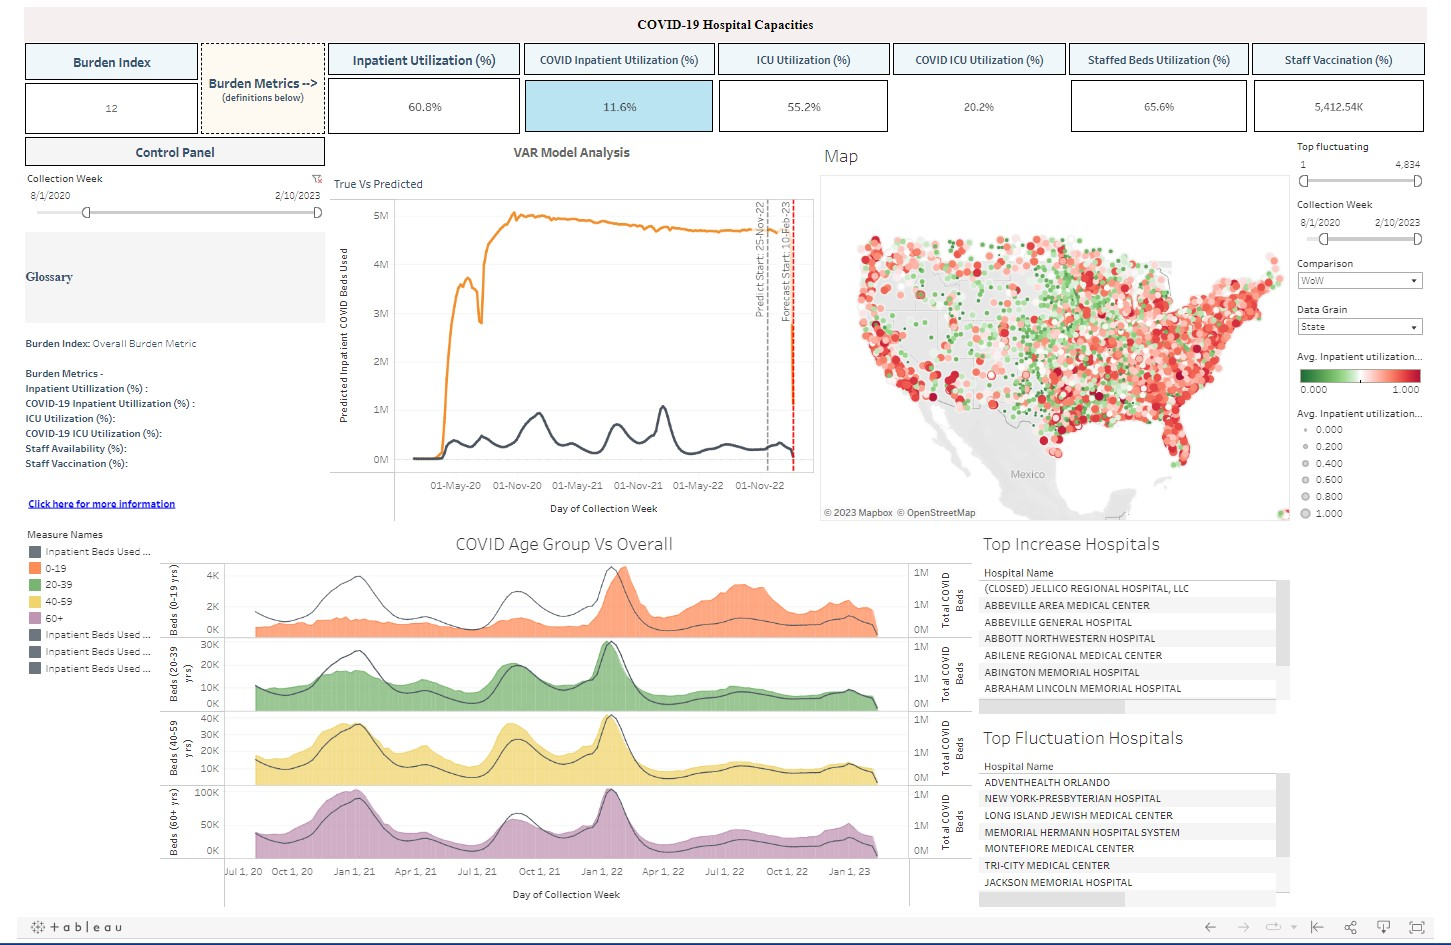
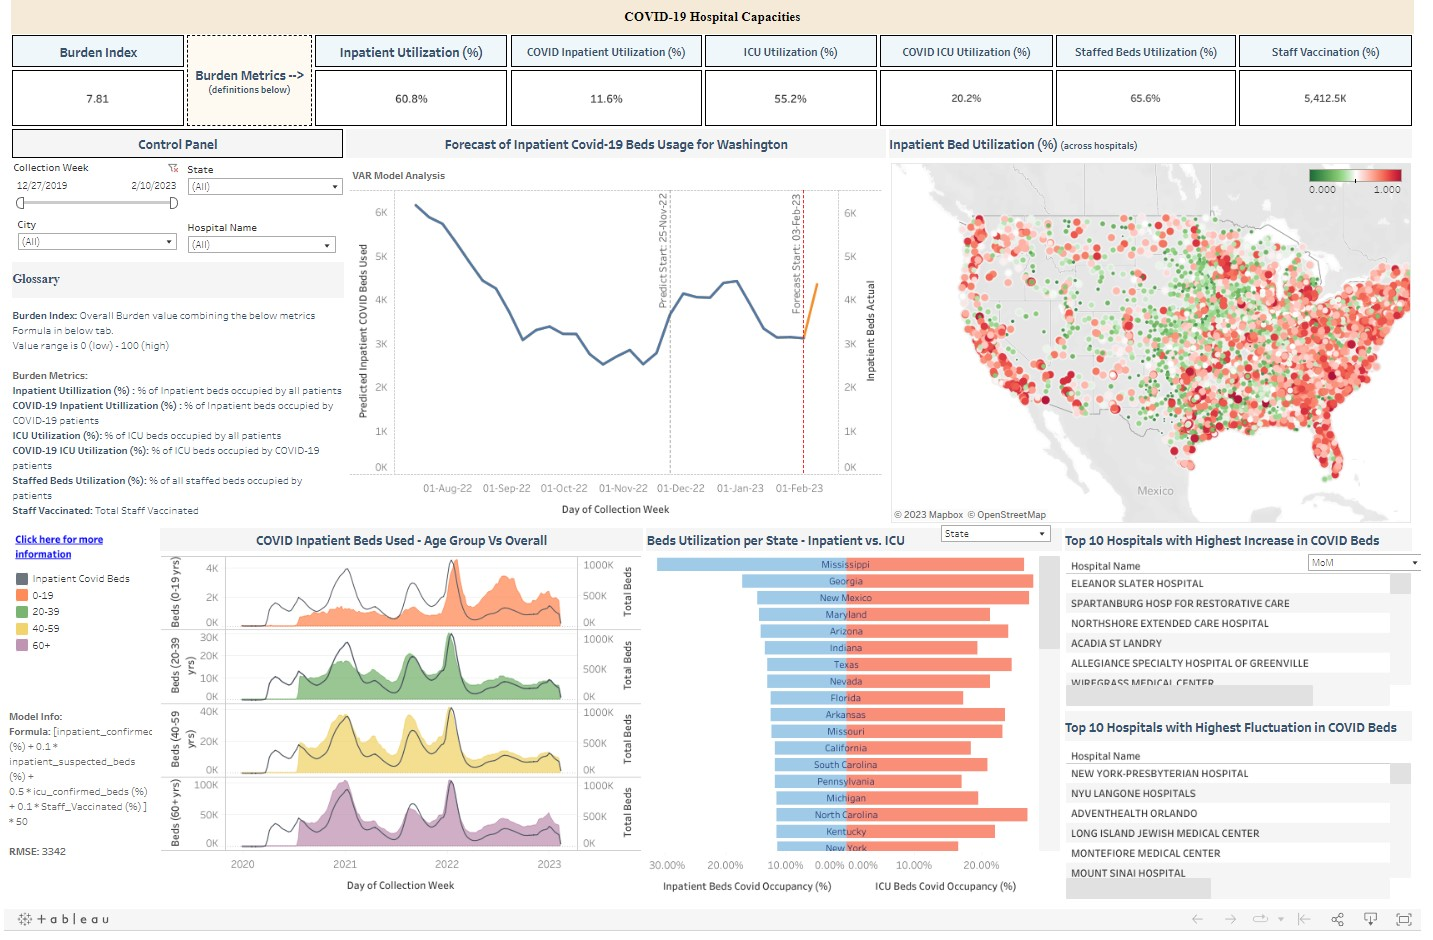
Updating images

diff --git a/docs/project_report.md b/docs/project_report.md
@@ -52,10 +52,14 @@ The new updated data file can be found [here](https://github.com/TharunKumarRedd
 - **Which hospitals have had a significant increase in total inpatient beds used for COVID cases over time?**
 
     The following image shows the hospitals that had a significant increase in total inpatient beds used for COVID cases over time. The user has the flexibility to choose between a Year-on-Year comparison, Month-on-Month comparsion and Week-on-Week comparison:
+    ![q4](https://github.com/TharunKumarReddy5/optimizers-dubstech-2023/blob/main/plots/q4.png?raw=true)
+    
 
 - **Which hospitals have had a significant fluctuation in total inpatient beds used for COVID cases over time?**
 
     The following image shows the hospitals that had a significant fluctuation in total inpatient beds used for COVID cases over time: 
+    ![q5](https://github.com/TharunKumarReddy5/optimizers-dubstech-2023/blob/main/plots/q5.png?raw=true)
+    
 
 - **Design and build a dashboard that helps a hospital understand how to better manage and prepare their resources (inpatient beds, nurses, docs).** 
 
@@ -70,13 +74,18 @@ Metric to rank the COVID burden a hospital is experiencing:
 
 This gives us ranking of Hospital Burden based on the initialized weights (that were chosen considering various factors and domain knowledge) 
 
-To update the weights of the equation calculating HBR, we came up with an algortihm (which could not be implemented due to the time constraint)
+To update the weights of the equation calculating HBR, we came up with an algorithm (which could not be implemented due to the time constraint)
 
 - Create 10 clusters using these new developed features (inpatient_confirmed, icu_confirmed, staff_vaccinated) using K-means clustering. 
 - These clusters are representative of "unordered" Hospital Burden (Basically, each of this cluster represents one bin of the ranked Hospital burden. Let's say 80-90 ranked could be closely represented by cluster 5, and similarly other bins of ranks could be represented by some other cluster.) 
-- So, we try to map the cluster to these bins and calculate the weights each of these features carry using grid-search in a way that we have 10 clusters closesly represent the 10 bins of HBR. 
+- So, we try to map the cluster to these bins and calculate the weights each of these features carry using grid-search in a way that we have 10 clusters closely represent the 10 bins of HBR. 
+- These newly updated weights will be used to identify the hospital burden index.
+- Currently, we have randomly assigned initial weights to be 40, 50 and 10 for inpatient_confirmed, icu_confirmed, staff_vaccinated respectively.
 
-Due to the time constraint, we were not able to complete this algo.
+Due to the time constraint, we were not able to complete this algo. 
+
+Index based on Intital weights:
+![metric_op](https://github.com/TharunKumarReddy5/optimizers-dubstech-2023/blob/main/plots/metric_op.jpg?raw=true)
 
 Link to [notebook]().
 

diff --git a/README.md b/README.md
@@ -28,13 +28,17 @@ Here is a link to out **[Tableau dashboard](https://public.tableau.com/app/profi
 
 1. **Machine Learning Modelling** to predict the `"inpatient_beds_used_covid_7_day_sum"` values for the next 12 weeks  for a specific state selected.
 
-RMSE across all states is 3342.
+![model](https://github.com/TharunKumarReddy5/optimizers-dubstech-2023/blob/main/plots/model.jpg?raw=true)
+**RMSE across all states is 3342.**
 
 Detailed explanation **[here](https://github.com/TharunKumarReddy5/optimizers-dubstech-2023/blob/main/docs/project_report.md#modelling)**.
 
 2. **Metric** to rank the COVID burden a hospital is experiencing.
 
 ![metric](https://github.com/TharunKumarReddy5/optimizers-dubstech-2023/blob/main/plots/metric.jpg?raw=true)
+
+Hosiptal Burden Index based on Intital weights:
+![metric_op](https://github.com/TharunKumarReddy5/optimizers-dubstech-2023/blob/main/plots/metric_op.jpg?raw=true)
 
 Detailed explanation **[here](https://github.com/TharunKumarReddy5/optimizers-dubstech-2023/blob/main/docs/project_report.md#metric-design)**.
 
